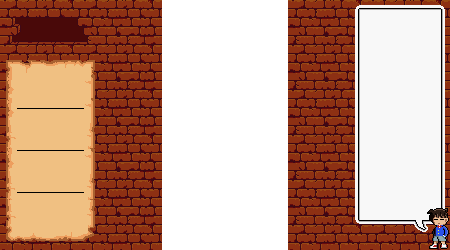
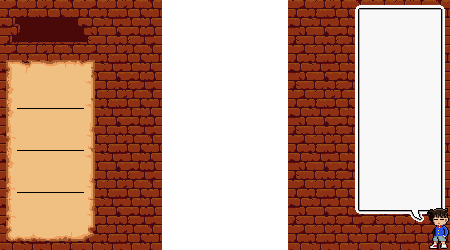
fix(chat): fix chat box hover conan

Changed region(s): [[0.7778, 0.84, 0.9644, 0.924]]

diff --git a/const/visual/chat.py b/const/visual/chat.py
@@ -7,7 +7,7 @@ class ChatMessageType(Enum):
 
 
 CHAT_POSITION = (362, 13)
-CHAT_SIZE = (77, 203)
+CHAT_SIZE = (77, 194)
 CHAT_FONT_SIZE = 6
 AVATAR_WIDTH = 10
 SPACING = (3, 3)
